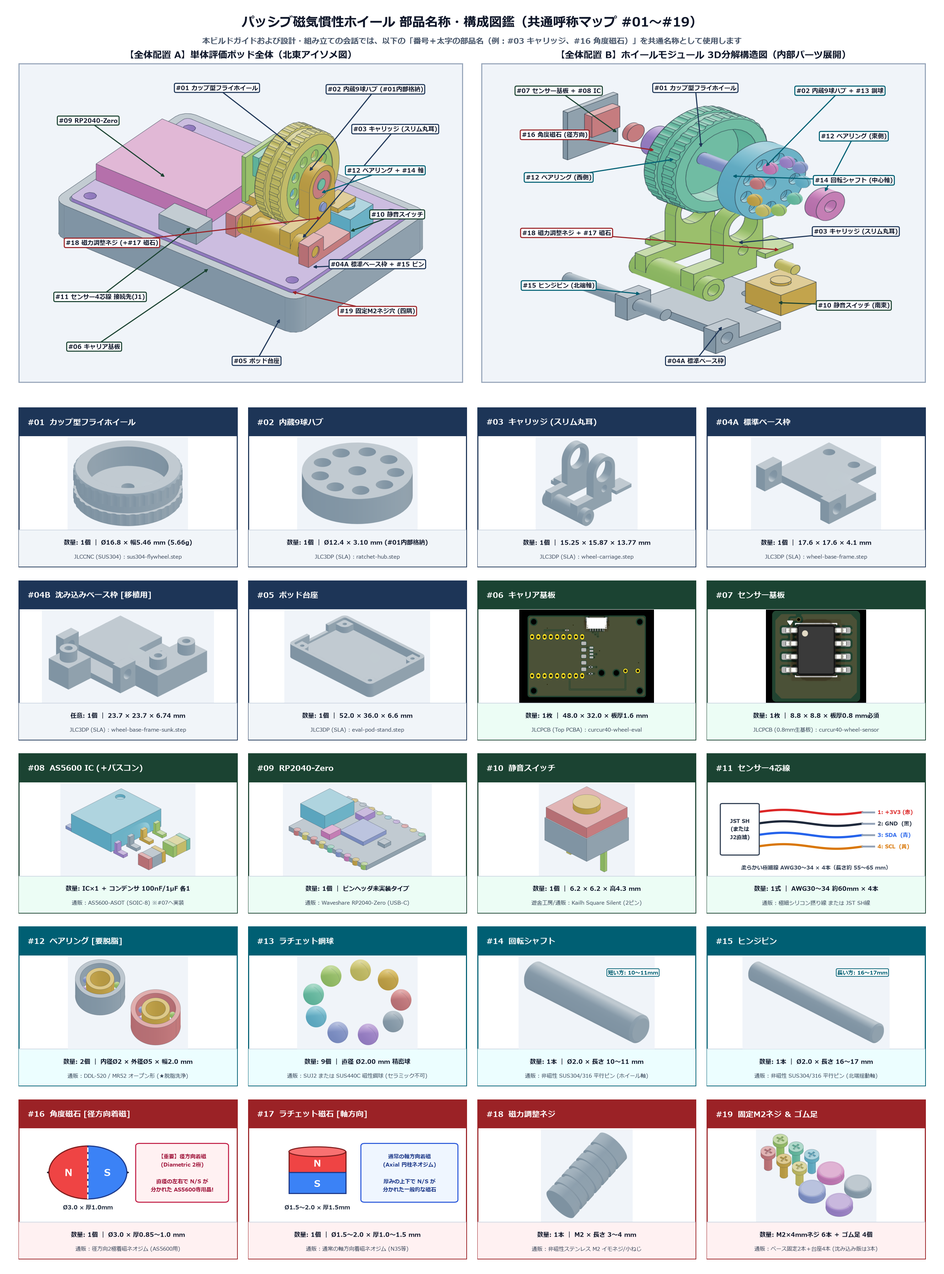
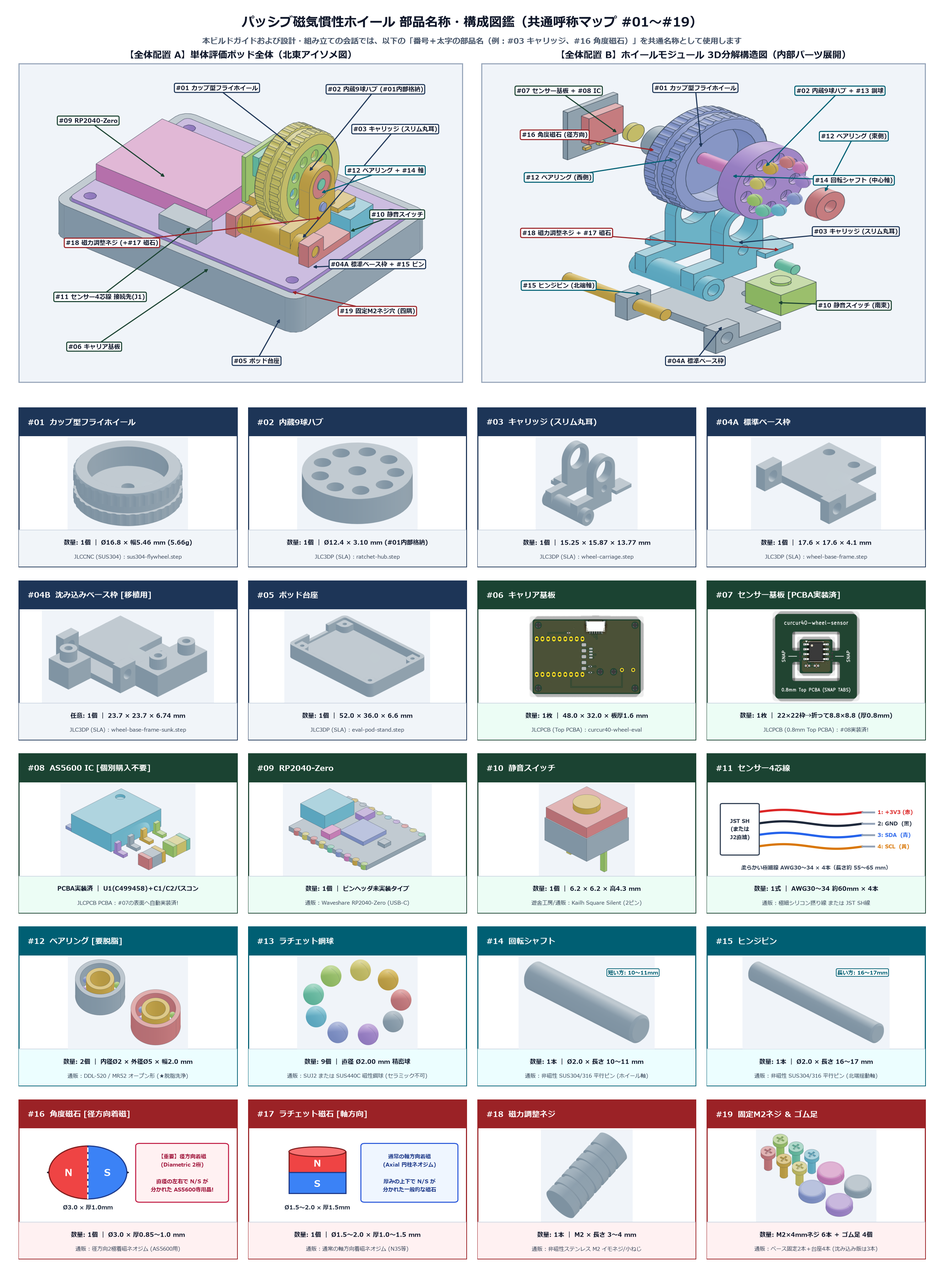
docs(inertia-wheel): update build guide, spec, and visual parts guide for PCBA-assembled sensor board

diff --git a/scripts/generate_inertia_wheel_diagram.py b/scripts/generate_inertia_wheel_diagram.py
@@ -293,7 +293,12 @@ def main():
 
 def _autocrop_pil(img_path: Path, pad_frac: float = 0.08) -> tuple[np.ndarray, tuple[float, float, float]]:
     """Crop uniform background (and light KiCad drop shadow if white bg) around rendered object."""
-    im = Image.open(img_path).convert("RGB")
+    raw = Image.open(img_path)
+    if raw.mode in ("RGBA", "LA"):
+        white = Image.new("RGBA", raw.size, (255, 255, 255, 255))
+        im = Image.alpha_composite(white, raw.convert("RGBA")).convert("RGB")
+    else:
+        im = raw.convert("RGB")
     arr = np.asarray(im, dtype=np.uint8)
     bg = arr[2, 2].astype(np.int16)
     thresh = 35 if int(bg.min()) > 245 else 8
@@ -339,6 +344,8 @@ def _build_temp_part_renders(tmp_dir: Path) -> dict[str, Path]:
         exp_offsets = {{
             "AS5600_Sensor_SubPCB": (-13.5, 0.0, 7.5),
             "AS5600_SOIC8_IC": (-12.5, 0.0, 7.5),
+            "AS5600_Cap_C1_100nF": (-12.5, 0.0, 7.5),
+            "AS5600_Cap_C2_1uF": (-12.5, 0.0, 7.5),
             "Diametric_Magnet_3x1mm": (-8.5, 0.0, 7.5),
             "Bearing_MR52_West": (-5.2, 0.0, 7.5),
             "SUS304_Flywheel_Cup_16p8mm": (-1.2, 0.0, 7.5),
@@ -775,8 +782,8 @@ def generate_parts_guide():
             ("#04B  沈み込みベース枠 [移植用]", rendered["p04b"], "任意: 1個 ｜ 23.7 × 23.7 × 6.74 mm", "JLC3DP (SLA) : wheel-base-frame-sunk.step", C_CUSTOM),
             ("#05  ポッド台座", rendered["p05"], "数量: 1個 ｜ 52.0 × 36.0 × 6.6 mm", "JLC3DP (SLA) : eval-pod-stand.step", C_CUSTOM),
             ("#06  キャリア基板", ASSETS_DIR / "render_pcb_wheel_eval.png", "数量: 1枚 ｜ 48.0 × 32.0 × 板厚1.6 mm", "JLCPCB (Top PCBA) : curcur40-wheel-eval", C_ELEC),
-            ("#07  センサー基板", ASSETS_DIR / "render_pcb_wheel_sensor.png", "数量: 1枚 ｜ 8.8 × 8.8 × 板厚0.8 mm必須", "JLCPCB (0.8mm生基板) : curcur40-wheel-sensor", C_ELEC),
-            ("#08  AS5600 IC (＋パスコン)", rendered["p08"], "数量: IC×1 ＋ コンデンサ 100nF/1μF 各1", "通販 : AS5600-ASOT (SOIC-8) ※#07へ実装", C_ELEC),
+            ("#07  センサー基板 [PCBA実装済]", ASSETS_DIR / "render_pcb_wheel_sensor.png", "数量: 1枚 ｜ 22×22枠→折って8.8×8.8 (厚0.8mm)", "JLCPCB (0.8mm Top PCBA) : #08実装済!", C_ELEC),
+            ("#08  AS5600 IC [個別購入不要]", rendered["p08"], "PCBA実装済 ｜ U1(C499458)＋C1/C2パスコン", "JLCPCB PCBA : #07の表面へ自動実装済!", C_ELEC),
             ("#09  RP2040-Zero", rendered["p09"], "数量: 1個 ｜ ピンヘッダ未実装タイプ", "通販 : Waveshare RP2040-Zero (USB-C)", C_ELEC),
             ("#10  静音スイッチ", rendered["p10"], "数量: 1個 ｜ 6.2 × 6.2 × 高4.3 mm", "遊舎工房/通販 : Kailh Square Silent (2ピン)", C_ELEC),
             ("#11  センサー4芯線", "CUSTOM_WIRE", "数量: 1式 ｜ AWG30〜34 約60mm × 4本", "通販 : 極細シリコン撚り線 または JST SH線", C_ELEC),

diff --git a/docs/inertia_wheel_eval_buildguide_jp.md b/docs/inertia_wheel_eval_buildguide_jp.md
@@ -18,9 +18,9 @@
 | **`#04A`** | **標準ベース枠** | 1個 | JLC3DP SLA 基板表載せ固定枠（単体評価ポッド・標準版 `curcur40` 用） |
 | **`#04B`** | **沈み込みベース枠** | *(1個)* | *(任意)* JLC3DP SLA 裏吊り固定枠（`curcur40-right` 沈み込み＋クロススロット版への移植用） |
 | **`#05`** | **ポッド台座** | 1個 | JLC3DP SLA 単体評価ポッド用卓上ケース（$52 \times 36 \times 6.6\,\text{mm}$） |
-| **`#06`** | **キャリア基板** | 1枚 | JLCPCB `curcur40-wheel-eval`（$48 \times 32 \times 1.6\,\text{mm}$、`J1`・プルアップ抵抗実装済） |
-| **`#07`** | **センサー基板** | 1枚 | JLCPCB `curcur40-wheel-sensor`（$8.8 \times 8.8\,\text{mm}$、**板厚 `0.8 mm` 指定必須**） |
-| **`#08`** | **AS5600 IC** | 1式 | `AS5600-ASOT` 12-bit 磁気角度センサーIC（`SOIC-8`）＋ パスコン `100nF` / `1μF` |
+| **`#06`** | **キャリア基板** | 1枚 | JLCPCB `curcur40-wheel-eval`（$48 \times 32 \times 1.6\,\text{mm}$、`J1`・プルアップ抵抗 PCBA実装済） |
+| **`#07`** | **センサー基板** | 1枚 | JLCPCB `curcur40-wheel-sensor`（$22 \times 22\,\text{mm}$ 枠付 $\rightarrow$ 折って $8.8 \times 8.8\,\text{mm}$、**板厚 `0.8 mm`・表面 PCBA で `#08` 自動実装済**） |
+| **`#08`** | **AS5600 IC** | *(PCBA済)* | `AS5600-ASOT` (`C499458`) ＋ パスコン `100nF` / `1μF`（※**`#07` 表面へ工場実装済・個別購入不要**） |
 | **`#09`** | **RP2040-Zero** | 1個 | `Waveshare RP2040-Zero` マイコンボード（ピンヘッダ未実装） |
 | **`#10`** | **静音スイッチ** | 1個 | `Kailh Square Silent` 角形2ピン静音マイクロスイッチ（ミドルクリック用） |
 | **`#11`** | **センサー4芯線** | 1式 | `#07` センサー基板 ↔ `#06` キャリア基板を繋ぐ極細4芯線（または JST SH 線） |
@@ -44,10 +44,10 @@
 - **[部品名称・構成図鑑（共通呼称マップ `#01`〜`#19`）](#部品名称構成図鑑共通呼称マップ-0119)**
 - **[Step 1: 資材一覧と入手経路・発注ガイド](#step-1-資材一覧と入手経路発注ガイド)**
   - [1-1. 全体構成の概要（4つの調達ルート）](#1-1-全体構成の概要4つの調達ルート)
-  - [1-2. JLCPCB に発注するもの（基板 2種：`#06`, `#07`）](#1-2-jlcpcb-に発注するもの基板-2種06-07)
+  - [1-2. JLCPCB に発注するもの（基板 2種：`#06`, `#07` ともに片面 Economic PCBA）](#1-2-jlcpcb-に発注するもの基板-2種06-07-ともに片面-economic-pcba)
   - [1-3. JLCCNC に発注するもの（`#01` カップ型フライホイール）](#1-3-jlccnc-に発注するもの01-カップ型フライホイール)
   - [1-4. JLC3DP に発注するもの（SLA 高精細レジン造形パーツ：`#02`〜`#05`）](#1-4-jlc3dp-に発注するものsla-高精細レジン造形パーツ0205)
-  - [1-5. 通販（Amazon・秋月電子・遊舎工房等）で購入するパーツ（`#08`〜`#19`）](#1-5-通販amazon秋月電子遊舎工房等で購入するパーツ0819)
+  - [1-5. 通販（Amazon・秋月電子・遊舎工房等）で購入するパーツ（`#09`〜`#19`）](#1-5-通販amazon秋月電子遊舎工房等で購入するパーツ0919)
   - [1-6. 発注前チェックリスト](#1-6-発注前チェックリスト)
 - **[Step 2: 組み立て・脱脂・ハンダ付け・ファームウェア書き込み手順](#step-2-組み立て脱脂ハンダ付けファームウェア書き込み手順)**
   - [2-1. 必要な工具・ケミカル](#2-1-必要な工具ケミカル)
@@ -66,29 +66,34 @@
 
 単体評価ポッドを1台製作するための資材（`#01`〜`#19`）は、以下の **4ルート** で揃います（特殊な手巻きコイルや専用カスタムICは一切不要です）。
 
-1. **JLCPCB（基板製造・PCBA）**: `#06` キャリア基板（$48.0 \times 32.0\,\text{mm}$）＋ `#07` センサー基板（$8.8 \times 8.8\,\text{mm}$、板厚 `0.8 mm`）
+1. **JLCPCB（基板製造・Economic PCBA）**: `#06` キャリア基板（$48.0 \times 32.0\,\text{mm}$、Top PCBA）＋ `#07` センサー基板（$22.0 \times 22.0\,\text{mm}$ 捨て基板枠付 $\rightarrow$ 折って $8.8 \times 8.8\,\text{mm}$、板厚 `0.8 mm`・Top PCBA で `#08` 自動実装済）
 2. **JLCCNC（金属CNC切削）**: `#01` カップ型フライホイール（`SUS304` 削り出し $\varnothing 16.80 \times 5.46\,\text{mm}$）
 3. **JLC3DP（SLA 3Dプリント）**: `#02` 内蔵9球ハブ・`#03` キャリッジ・`#04A` 標準ベース枠（＋任意 `#04B` 沈み込みベース枠）・`#05` ポッド台座
-4. **国内通販（Amazon / 秋月電子 / 遊舎工房 / モノタロウ等）**: `#08` AS5600 IC・`#09` RP2040-Zero・`#10` 静音スイッチ・`#11` センサー4芯線・`#12` ベアリング・`#13` ラチェット鋼球・`#14` 回転シャフト・`#15` ヒンジピン・`#16` 角度磁石・`#17` ラチェット磁石・`#18` 磁力調整ネジ・`#19` 固定M2ネジ＆ゴム足
+4. **国内通販（Amazon / 秋月電子 / 遊舎工房 / モノタロウ等）**: `#09` RP2040-Zero・`#10` 静音スイッチ・`#11` センサー4芯線・`#12` ベアリング・`#13` ラチェット鋼球・`#14` 回転シャフト・`#15` ヒンジピン・`#16` 角度磁石・`#17` ラチェット磁石・`#18` 磁力調整ネジ・`#19` 固定M2ネジ＆ゴム足（※品薄になりやすい `#08` AS5600 IC と極小 `0402` パスコンは `#07` の JLCPCB PCBA に含まれるため個別手配不要です！）
 
 ---
 
-## 1-2. JLCPCB に発注するもの（基板 2種：`#06`, `#07`）
+## 1-2. JLCPCB に発注するもの（基板 2種：`#06`, `#07` ともに片面 Economic PCBA）
 
-JLCPCB（[https://jlcpcb.com/](https://jlcpcb.com/)）にて以下の **2種類の基板** を発注します。
+JLCPCB（[https://jlcpcb.com/](https://jlcpcb.com/)）にて以下の **2種類の基板をどちらも表面片面実装（`Top Side` Economic PCBA）** で発注します。
 
 | 対象基板（統一呼称） | 基板サイズ・板厚 | 推奨発注形態 | ガーバー (ZIP) | BOM (CSV) | CPL (CSV) |
 | :--- | :---: | :---: | :--- | :--- | :--- |
-| **`#06` キャリア基板**<br>(`curcur40-wheel-eval`) | $48.0 \times 32.0\,\text{mm}$<br>**板厚 `1.6 mm`** | **PCB + PCBA**<br>（表面 `Top Side` 実装） | [GERBER-curcur40-wheel-eval.zip](../pcbs/inertia-wheel-eval/jlcpcb/production_files/GERBER-curcur40-wheel-eval.zip) | [BOM-curcur40-wheel-eval.csv](../pcbs/inertia-wheel-eval/jlcpcb/production_files/BOM-curcur40-wheel-eval.csv) | [CPL-curcur40-wheel-eval.csv](../pcbs/inertia-wheel-eval/jlcpcb/production_files/CPL-curcur40-wheel-eval.csv) |
-| **`#07` センサー基板**<br>(`curcur40-wheel-sensor`) | $8.8 \times 8.8\,\text{mm}$<br>**板厚 `0.8 mm`** | **PCB のみ（手ハンダ）**<br>*(※面付け時のみPCBA可)* | [GERBER-curcur40-wheel-sensor.zip](../pcbs/inertia-wheel-sensor/jlcpcb/production_files/GERBER-curcur40-wheel-sensor.zip) | [BOM-curcur40-wheel-sensor.csv](../pcbs/inertia-wheel-sensor/jlcpcb/production_files/BOM-curcur40-wheel-sensor.csv) | [CPL-curcur40-wheel-sensor.csv](../pcbs/inertia-wheel-sensor/jlcpcb/production_files/CPL-curcur40-wheel-sensor.csv) |
+| **`#06` キャリア基板**<br>(`curcur40-wheel-eval`) | $48.0 \times 32.0\,\text{mm}$<br>**板厚 `1.6 mm`** | **PCB + Economic PCBA**<br>（表面 `Top Side` 実装） | [GERBER-curcur40-wheel-eval.zip](../pcbs/inertia-wheel-eval/jlcpcb/production_files/GERBER-curcur40-wheel-eval.zip) | [BOM-curcur40-wheel-eval.csv](../pcbs/inertia-wheel-eval/jlcpcb/production_files/BOM-curcur40-wheel-eval.csv) | [CPL-curcur40-wheel-eval.csv](../pcbs/inertia-wheel-eval/jlcpcb/production_files/CPL-curcur40-wheel-eval.csv) |
+| **`#07` センサー基板**<br>(`curcur40-wheel-sensor`) | $22.0 \times 22.0\,\text{mm}$ 枠付<br>（折って $8.8 \times 8.8\,\text{mm}$）<br>**板厚 `0.8 mm`** | **PCB + Economic PCBA**<br>（表面 `Top Side` 実装） | [GERBER-curcur40-wheel-sensor.zip](../pcbs/inertia-wheel-sensor/jlcpcb/production_files/GERBER-curcur40-wheel-sensor.zip) | [BOM-curcur40-wheel-sensor.csv](../pcbs/inertia-wheel-sensor/jlcpcb/production_files/BOM-curcur40-wheel-sensor.csv) | [CPL-curcur40-wheel-sensor.csv](../pcbs/inertia-wheel-sensor/jlcpcb/production_files/CPL-curcur40-wheel-sensor.csv) |
+
+| `#07` センサー基板 表面（`Top Side` PCBA 自動実装面） | `#07` センサー基板 裏面（`#11` センサー4芯線ハンダ付け面） |
+| :---: | :---: |
+| ![Wheel Sensor Top](./assets/render_pcb_wheel_sensor.png) | ![Wheel Sensor Back](./assets/render_pcb_wheel_sensor_back.png) |
 
 ### JLCPCB 発注時の注意点
 * **`#06` キャリア基板 (`curcur40-wheel-eval`)**:
-  * **PCB Thickness**: `1.6 mm`、**PCBA Assembly Side**: **`Top Side`**（`J1` JST SH 6ピンコネクタ `C160405`、I2C プルアップ抵抗 `R1/R2 4.7kΩ` `C25900`、パスコン `C1 100nF` `C1525` の計4点が自動実装されます）。
+  * **PCB Thickness**: `1.6 mm`、**PCBA Type**: `Economic`、**Assembly Side**: **`Top Side`**（`J1` JST SH 6ピンコネクタ `C160405`、I2C プルアップ抵抗 `R1/R2 4.7kΩ` `C25900`、パスコン `C1 100nF` `C1525` の計4点が自動実装されます）。
   * `U1`（`#09` RP2040-Zero）と `SW1`（`#10` 静音スイッチ）は後から手ハンダするため、PCBA 画面で Unplaced となっていて正常です。
 * **`#07` センサー基板 (`curcur40-wheel-sensor`)**:
   * **PCB Thickness**: 必ず **`0.8 mm`** を選択してください（`#03` キャリッジ西側の $0.85\,\text{mm}$ 基板保持棚に収めるため）。
-  * 単体サイズが $8.8 \times 8.8\,\text{mm}$ であり、JLCPCB の単体 PCBA 最小サイズ（$20 \times 20\,\text{mm}$）未満のため、**生基板（PCB のみ）で発注し、`#08` AS5600 IC（`1.27mm` ピッチ SOIC-8 で手ハンダ容易）とパスコン2個を手ハンダする** 方法が最も安価で手軽です。
+  * **PCBA Type**: **`Economic`**、**Assembly Side**: **`Top Side`**（表面片面実装：`U1 AS5600-ASOT` `C499458`、パスコン `C1 100nF` `C1525`、`C2 1μF` `C52923` の全3点が工場で自動実装されて届きます）。
+  * 外周に **$22.0 \times 22.0\,\text{mm}$ の捨て基板枠（ルータースリット＋左右3穴マウスバイト `SNAP` タブ、Vカット不使用）** を備えているため、JLCPCB の単体 PCBA 最小サイズ（$20 \times 20\,\text{mm}$）および板厚 `0.8 mm` Economic PCBA 条件をそのまま満たします。到着後に左右の `SNAP` タブをパキッと折るだけで $8.8 \times 8.8\,\text{mm}$ の完成基板になります。
 
 ---
 
@@ -120,11 +125,11 @@ JLC3DP の **3D Printing** サービス（[https://jlc3dp.com/3d-printing-quote]
 
 ---
 
-## 1-5. 通販（Amazon・秋月電子・遊舎工房等）で購入するパーツ（`#08`〜`#19`）
+## 1-5. 通販（Amazon・秋月電子・遊舎工房等）で購入するパーツ（`#09`〜`#19`）
 
 | 統一呼称 | 必要数 | 型番・寸法仕様 | 主な入手先 |
 | :--- | :---: | :--- | :--- |
-| **`#08` AS5600 IC（＋パスコン）** | **1式** | ams OSRAM **`AS5600-ASOT`**（`SOIC-8`）×1 ＋ チップコンデンサ `100nF` (`0402/0603`) ×1、`1μF` ×1 ※`#07` センサー基板へ手ハンダ | 秋月電子 / LCSC (`C499458`, `C1525`, `C52923`) / Mouser |
+| **`#08` AS5600 IC（＋パスコン）** | **個別購入不要** | ams OSRAM **`AS5600-ASOT`** (`C499458`) ＋ パスコン `100nF` (`C1525`) / `1μF` (`C52923`) ※**`#07` センサー基板の JLCPCB PCBA（`Top Side`）で工場自動実装済！** | JLCPCB (LCSC 在庫より自動手配) |
 | **`#09` RP2040-Zero** | **1個** | **`Waveshare RP2040-Zero`**（ピンヘッダ未実装タイプ） | Amazon / 秋月電子 / スイッチサイエンス / AliExpress |
 | **`#10` 静音スイッチ** | **1個** | **`Kailh Square Silent Micro Switch`**（$6.2 \times 6.2 \times 4.3\,\text{mm}$、2ピン角形静音スイッチ Red Dot） | 遊舎工房 / Amazon / AliExpress |
 | **`#11` センサー4芯線** | **1式** | `AWG30`〜`AWG34` 極細シリコン被覆撚り線 または ポリウレタン銅線 約 $60\,\text{mm} \times 4$本（`#03` キャリッジ揺動を妨げない柔らかい細線、または片側カットした JST SH 6ピンケーブル） | 秋月電子 / オヤイデ電気 / Amazon |
@@ -142,7 +147,7 @@ JLC3DP の **3D Printing** サービス（[https://jlc3dp.com/3d-printing-quote]
 
 ## 1-6. 発注前チェックリスト
 
-- [ ] **JLCPCB**: `#06` キャリア基板（`1.6mm` / Top PCBA）＋ `#07` センサー基板（**`0.8mm`** / 生基板）
+- [ ] **JLCPCB**: `#06` キャリア基板（`1.6mm` / `Top Side` Economic PCBA）＋ `#07` センサー基板（**`0.8mm`** / **`Top Side` Economic PCBA**：`#08` 自動実装済）
 - [ ] **JLCCNC**: `#01` カップ型フライホイール `sus304-flywheel.step`（`SUS304` / `As Machined` シルバー切削仕上げ）
 - [ ] **JLC3DP**: `#02` 内蔵9球ハブ（`ratchet-hub.step`）、`#03` キャリッジ、`#04A` 標準ベース枠、`#05` ポッド台座（すべて SLA レジン）
 - [ ] **磁石・鋼球・ピンの磁性チェック**:
@@ -160,7 +165,7 @@ JLC3DP の **3D Printing** サービス（[https://jlc3dp.com/3d-printing-quote]
 | 工具・ケミカル | 用途 |
 | :--- | :--- |
 | **ブレーキ＆パーツクリーナー ＋ 小皿（ガラス瓶）** | `#12` ベアリング内部のグリスを完全に洗い流す（脱脂）ために使用します。 |
-| **ハンダごて・細ハンダ・フラックス** | `#08` AS5600 IC、`#09` RP2040-Zero、`#10` 静音スイッチ、`#11` センサー4芯線のハンダ付けに使用します。 |
+| **ハンダごて・細ハンダ・フラックス** | `#11` センサー4芯線、`#09` RP2040-Zero、`#10` 静音スイッチのハンダ付けに使用します（極小SMD部品のハンダ付けは不要です！）。 |
 | **精密ドライバー（`#00`）または `0.9mm` 六角レンチ** | `#19` 固定M2ネジおよび `#18` 磁力調整ネジの回転に使用します。 |
 | **瞬間接着剤（低白化ジェルタイプ）または 2液エポキシ** | `#01` カップ内部への `#02` ハブ固定、`#14` 回転シャフト西端への `#16` 角度磁石、`#18` 磁力調整ネジ先端への `#17` ラチェット磁石の固定に少量使用します。 |
 | **デザインナイフ / カッターの刃先** | シールド付き `#12` ベアリング（`DDL-520ZZ`）のCリング・シールド板を外す場合に使用します（幅 $2.0\,\text{mm}$ のオープン形 `DDL-520` なら不要です）。 |
@@ -207,11 +212,13 @@ kb=curcur40_wheel_eval kr=rev1 km=default make qmk-compile
 
 ## 2-4. Phase 3: 基板のハンダ付け（`#07` センサー基板 ＆ `#06` キャリア基板）
 
-### ① `#07` センサー基板（`curcur40-wheel-sensor`：$8.8 \times 8.8 \times 0.8\,\text{mm}$）
-1. **表面（`F.Cu`）**: `#08` AS5600 IC（`U1`, `SOIC-8`）の **1番ピン丸印／面取り側** を基板シルクの1番マークに合わせ、8ピンをハンダ付けします。
-2. **裏面（`B.Cu`）**: `#08` 付属のパスコン `C1`（`100nF`）と `C2`（`1μF`）をハンダ付けします。
-3. **4極配線パッド（`J1`）への `#11` センサー4芯線ハンダ付け**:
-   - 裏面下端の4つのSMDパッド（シルク表記順に **`3V3` / `GND` / `SDA` / `SCL`**）に、長さ約 `55〜65mm` の `#11` センサー4芯線をハンダ付けします。
+### ① `#07` センサー基板（`curcur40-wheel-sensor`：PCBA 実装済・折って $8.8 \times 8.8 \times 0.8\,\text{mm}$）
+表面（`F.Cu`）の `#08` AS5600 IC（`U1`）およびパスコン2個（`C1`, `C2`）はすべて JLCPCB PCBA で実装済みのため、**作業は裏面のワイヤ4本のはんだ付けと外枠折り取りだけ** です。
+1. **外枠を折る前に、裏面4極パッド（`J1`）へ `#11` センサー4芯線をハンダ付け（★おすすめ！）**:
+   - 外周の $22 \times 22\,\text{mm}$ 捨て基板枠が付いた状態のまま裏返して机に置くと、基板が大きくて動かないため非常にハンダ付けしやすくなります。
+   - 裏面下端のシルク表記（裏面を正面に見て左から順に **`4:SCL` / `3:SDA` / `2:GND` / `1:3V3`**、中央基板上にも `SCL`・`3V3` 刻印あり）に従い、長さ約 `55〜65mm` の `#11` センサー4芯線4本をハンダ付けします。
+2. **捨て基板枠（`SNAP` マウスバイトタブ）の折り取り**:
+   - 左右の `SNAP` タブ（3連小穴ミシン目）を指先またはニッパーでパキッと折り取り、中央の **$8.8 \times 8.8\,\text{mm}$ センサー基板** を取り出します（ミシン目は基板端よりわずかに内側へ控えてあるため、そのまま綺麗に収まります）。
 
 ### ② `#06` キャリア基板（`curcur40-wheel-eval`：$48.0 \times 32.0 \times 1.6\,\text{mm}$）
 1. **`U1`: `#09` RP2040-Zero の実装（基板西側）**:

diff --git a/docs/passive_inertia_wheel_spec.md b/docs/passive_inertia_wheel_spec.md
@@ -66,13 +66,13 @@
 
 ### 1.2 3D CAD / KiCad PCB プレビューギャラリー
 
-| カップ型 `SUS304` ホイール単体 (`#01`) | ホイールモジュール単体 (22パーツ) |
+| カップ型 `SUS304` ホイール単体 (`#01`) | ホイールモジュール単体 (24パーツ) |
 | :---: | :---: |
 | ![SUS304 Flywheel](assets/render_inertia_wheel_flywheel.png) | ![Inertia Wheel Module](assets/render_inertia_wheel_module.png) |
 | **タイプA：標準ポン付け版 (`Z_top = +14.8 mm`)** | **タイプB：沈み込み＋クロススロット版 (`Z_top = +9.8 mm`)** |
 | ![curcur40-right Standard](assets/render_curcur40_right_inertia_wheel.png) | ![curcur40-right Sunk](assets/render_curcur40_right_inertia_wheel_sunk.png) |
-| **単体デスクトップ評価ポッド (`RP2040-Zero`)** | **評価キャリア基板 ＆ `AS5600` センサー小基板** |
-| ![Eval Pod Assembly](assets/render_inertia_wheel_eval_pod.png) | ![Wheel Eval PCB](assets/render_pcb_wheel_eval.png) |
+| **単体デスクトップ評価ポッド (`RP2040-Zero`)** | **`AS5600` センサー基板 (`#07`, 0.8mm Top PCBA)** |
+| ![Eval Pod Assembly](assets/render_inertia_wheel_eval_pod.png) | ![Wheel Sensor PCB](assets/render_pcb_wheel_sensor.png) |
 
 ---
 
@@ -108,15 +108,15 @@
 | [`wheel-base-frame.step`](../cases/inertia_wheel/wheel-base-frame.step) / `.stl` | JLC3DP SLA 標準ベース枠（評価ポッド／タイプA用） | $17.60 \times 17.60 \times 4.10$ | 最小穴径 $2.06\,\text{mm}$・薄肉違反 `0` (除外 `0`) **PASS** |
 | [`wheel-base-frame-sunk.step`](../cases/inertia_wheel/wheel-base-frame-sunk.step) / `.stl` | JLC3DP SLA 沈み込みベース枠（タイプB低背版用） | $23.70 \times 23.70 \times 6.74$ | 最小穴径 $1.60\,\text{mm}$・薄肉違反 `0` (除外 `0`) **PASS** |
 | [`eval-pod-stand.step`](../cases/inertia_wheel/eval-pod-stand.step) / `.stl` | JLC3DP SLA/MJF 単体評価ポッド台座 | $52.00 \times 36.00 \times 6.60$ | 最小穴径 $2.00\,\text{mm}$・薄肉違反 `0` (除外 `0`) **PASS** |
-| [`inertia-wheel-module-assembly.step`](../cases/assemblies/inertia-wheel-module-assembly.step) | 標準モジュール検証アセンブリ (22パーツ) | ― | 全ペア `overlap = 0.00000000 mm³` **PASS** |
-| [`inertia-wheel-module-sunk-assembly.step`](../cases/assemblies/inertia-wheel-module-sunk-assembly.step) | 沈み込みモジュール検証アセンブリ (22パーツ) | ― | 全ペア `overlap = 0.00000000 mm³` **PASS** |
-| [`inertia-wheel-eval-pod-assembly.step`](../cases/assemblies/inertia-wheel-eval-pod-assembly.step) | 単体デスクトップ評価ポッド検証 (26パーツ) | ― | 全ペア `overlap = 0.00000000 mm³` **PASS** |
-| [`curcur40-right-with-inertia-wheel.step`](../cases/assemblies/curcur40-right-with-inertia-wheel.step) | タイプA：無改造 `curcur40-right` 搭載検証 (46パーツ) | ― | 全ペア `overlap = 0.00000000 mm³`・可動隙間 $\ge 0.33\,\text{mm}$ **PASS** |
-| [`curcur40-right-with-inertia-wheel-sunk.step`](../cases/assemblies/curcur40-right-with-inertia-wheel-sunk.step) | タイプB：沈み込み＋クロススロット版 `curcur40-right` 検証 (49パーツ) | ― | 全ペア `overlap = 0.00000000 mm³`・可動隙間 $\ge 0.32\,\text{mm}$ **PASS** |
+| [`inertia-wheel-module-assembly.step`](../cases/assemblies/inertia-wheel-module-assembly.step) | 標準モジュール検証アセンブリ (24パーツ) | ― | 全ペア `overlap = 0.00000000 mm³` **PASS** |
+| [`inertia-wheel-module-sunk-assembly.step`](../cases/assemblies/inertia-wheel-module-sunk-assembly.step) | 沈み込みモジュール検証アセンブリ (24パーツ) | ― | 全ペア `overlap = 0.00000000 mm³` **PASS** |
+| [`inertia-wheel-eval-pod-assembly.step`](../cases/assemblies/inertia-wheel-eval-pod-assembly.step) | 単体デスクトップ評価ポッド検証 (28パーツ) | ― | 全ペア `overlap = 0.00000000 mm³` **PASS** |
+| [`curcur40-right-with-inertia-wheel.step`](../cases/assemblies/curcur40-right-with-inertia-wheel.step) | タイプA：無改造 `curcur40-right` 搭載検証 (48パーツ) | ― | 全ペア `overlap = 0.00000000 mm³`・可動隙間 $\ge 0.33\,\text{mm}$ **PASS** |
+| [`curcur40-right-with-inertia-wheel-sunk.step`](../cases/assemblies/curcur40-right-with-inertia-wheel-sunk.step) | タイプB：沈み込み＋クロススロット版 `curcur40-right` 検証 (51パーツ) | ― | 全ペア `overlap = 0.00000000 mm³`・可動隙間 $\ge 0.32\,\text{mm}$ **PASS** |
 
 ### 3.2 KiCad 10.0 回路図・基板・JLCPCB 発注ファイル
-* **`AS5600` センサーサブ基板（[`pcbs/inertia-wheel-sensor/`](../pcbs/inertia-wheel-sensor/)）**：$8.80 \times 8.80 \times 0.80\,\text{mm}$、ERC `0/0`・DRC `0/0/0`。
-* **単体 USB-C 評価キャリア基板（[`pcbs/inertia-wheel-eval/`](../pcbs/inertia-wheel-eval/)）**：$48.00 \times 32.00 \times 1.60\,\text{mm}$、ERC `0/0`・DRC `0/0/0`。
+* **`AS5600` センサーサブ基板（[`pcbs/inertia-wheel-sensor/`](../pcbs/inertia-wheel-sensor/)）**：$22.00 \times 22.00\,\text{mm}$ 捨て基板枠（左右3連 $\varnothing 0.55\,\text{mm}$ マウスバイトタブ付、折り取り後 $8.80 \times 8.80 \times 0.80\,\text{mm}$）、板厚 `0.8 mm`・表面片面 `Top Side` Economic PCBA（`U1 AS5600-ASOT` `C499458`、`C1 100nF` `C1525`、`C2 1μF` `C52923` 工場実装済）、ERC `0/0`・DRC `0/0/0`。
+* **単体 USB-C 評価キャリア基板（[`pcbs/inertia-wheel-eval/`](../pcbs/inertia-wheel-eval/)）**：$48.00 \times 32.00 \times 1.60\,\text{mm}$、表面片面 `Top Side` Economic PCBA、ERC `0/0`・DRC `0/0/0`。
 * **`curcur40-right` Rev2（タイプB 沈み込み版）への統合時変更点（外形サイズ不変）**：
   * `rEXSW1` 中心 $(14.2875, 0.0000)\,\text{mm}$ に対し、メインPCBに **$18.50 \times 18.50\,\text{mm}$ ($R=0.50\,\text{mm}$) の内窓** と 3箇所の $\varnothing 3.70\,\text{mm}$ ボス貫通穴を設け、トッププレートには **四隅のヒンジ・静音スイッチ・ストライカーを上側から完全に覆い隠すクロススロット開口**（ホイールスリット幅 $6.60 \times 17.80\,\text{mm}$ ＋ 中央軸受アルコーブ、下からの1ピース挿入組立対応、全可動部クリアランス $\ge 0.32\,\text{mm}$）と 3箇所の $\varnothing 2.40\,\text{mm}$ M2 ネジ穴を設けるだけで、**基板・プレートの外形サイズと既存ケースを1ミリも変えず、外装カバー不要で市販マウスのような外観に仕上がります**。
 
@@ -134,7 +134,7 @@
 | **`#13` ラチェット鋼球** | 精密ベアリング鋼球 (`SUJ2`) | **$\varnothing 2.00\,\text{mm}$** × 9個使用 | Amazon / MonotaRO (`2mm SUJ2 鋼球`) | 約 \$1.50 (¥230 / 100個) |
 | **`#14`/`#15` シャフト・ピン** | 非磁性ステンレス平行ピン (`SUS304`/`316`) | ホイール軸 $\varnothing 2.0 \times 10\text{〜}11\,\text{mm}$ ×1、ヒンジ軸 $\varnothing 2.0 \times 16\text{〜}17\,\text{mm}$ ×1 | Amazon / ミスミ / MonotaRO | 約 \$1.00 (¥150) |
 | **`#18` 磁力調整ネジ** | M2 ステンレスイモネジ / 小ねじ | `M2 × 3〜4 mm`（東側軸受下部の軸方向ギャップ調整用） | ホームセンター / Amazon | 約 \$0.20 (¥30) |
-| **`#08` 角度センサーIC** | ams OSRAM **`AS5600-ASOT`** | `SOIC-8`, 12-bit I2C 非接触磁気角度センサー | **LCSC `C499458`** / 秋月電子 | 約 \$1.10 (¥170) |
+| **`#07`＋`#08` センサー基板 PCBA** | `curcur40-wheel-sensor` (`AS5600-ASOT`＋`C1/C2` 実装済) | $22\times 22\,\text{mm}$ 枠付 $\rightarrow$ 折って $8.8\times 8.8\times 0.8\,\text{mm}$ | **JLCPCB `0.8mm` Top PCBA (`C499458`)** | 約 \$1.80 (¥270) |
 | **`#16` 角度磁石** | 径方向2極着磁（Diametric）NdFeB磁石 | $\varnothing 3.0 \times 0.85 \sim 1.0\,\text{mm}$ (`N35`) | AliExpress / マグネット専門店 | 約 \$0.50 (¥80) |
 | **`#17` ラチェット磁石** | 軸方向着磁 小型ネオジム磁石 | $\varnothing 1.5 \sim 2.0 \times 1.0 \sim 1.5\,\text{mm}$ (`N35`) | Amazon / ハイキューパーツ | 約 \$0.30 (¥50) |
 | **`#10` 静音スイッチ** | **`Kailh Square Silent 6.2×6.2×4.3mm`** | 静音角形マイクロスイッチ（Red Dot, $0.74\,\text{N}$） | 遊舎工房 / Amazon / AliExpress | 約 \$0.35 (¥55) |
